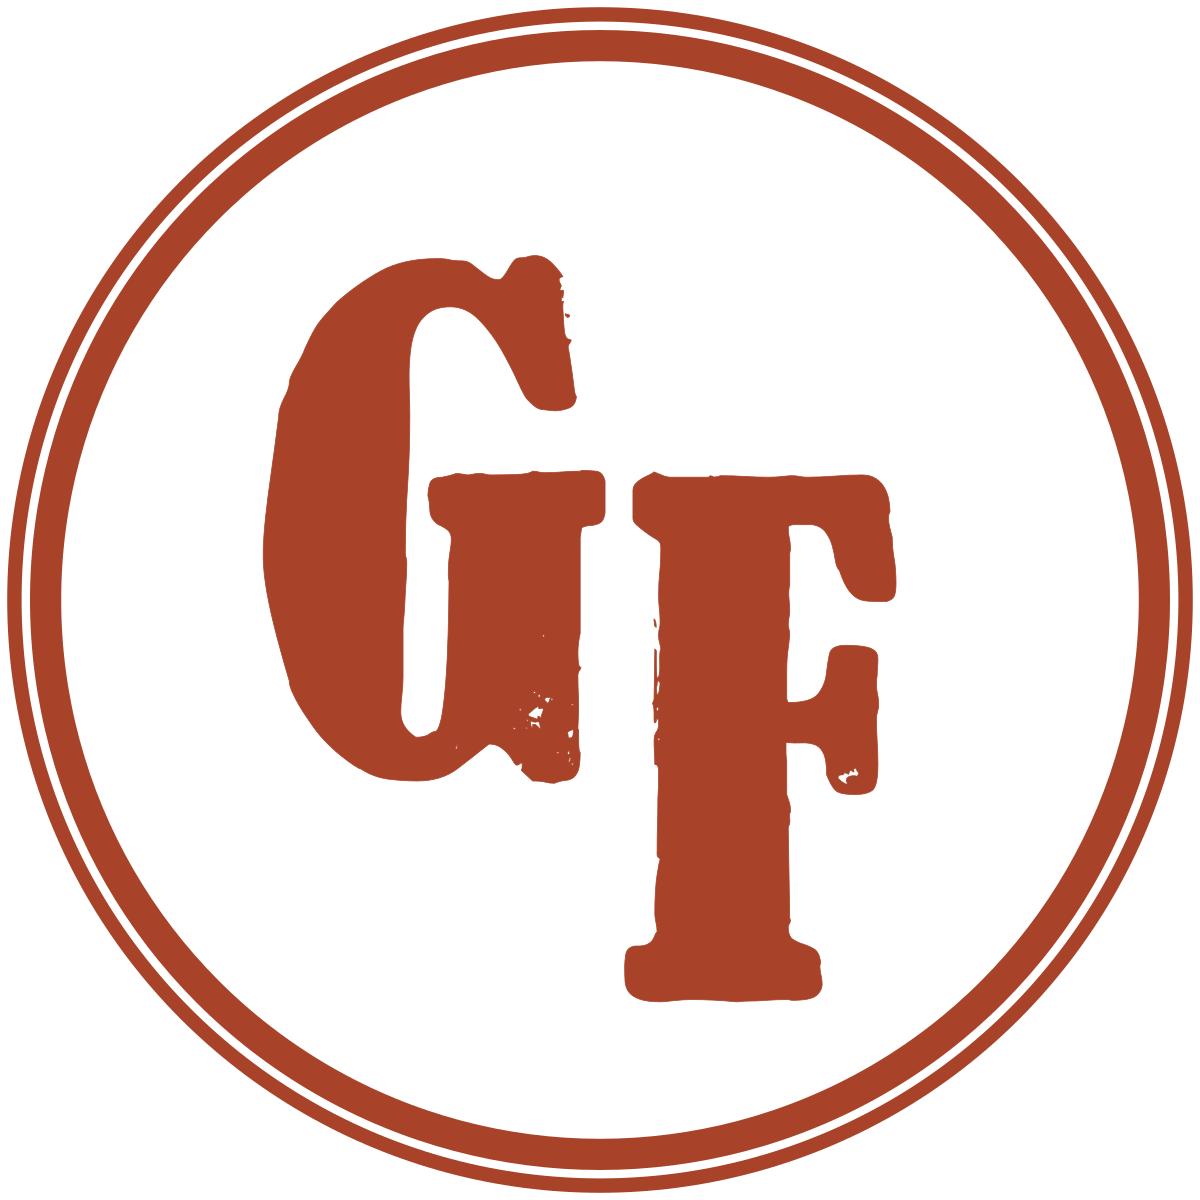
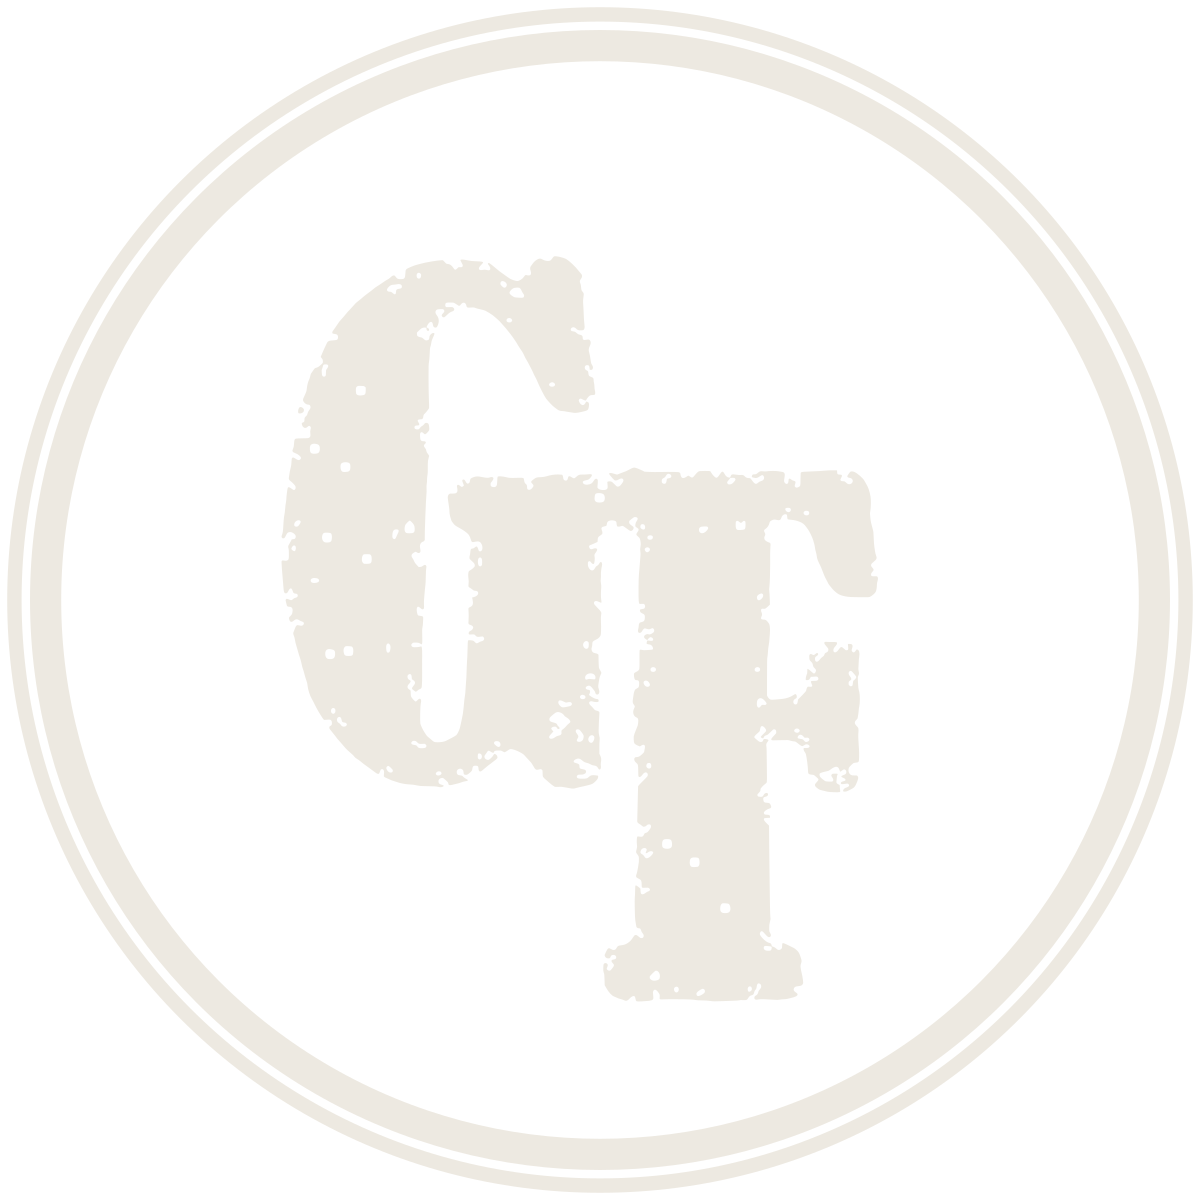
Retrace roundel from original artwork: overlapping G/F and real speckle

Changed region(s): [[0.2158, 0.2158, 0.7708, 0.8325], [0.0, 0.0, 1.0, 1.0]]

diff --git a/brand/marks/README.md b/brand/marks/README.md
@@ -52,15 +52,15 @@ distressing is the real thing rather than a reconstruction. Measured speckle den
 482 blobs per megapixel against the original's 552. Regenerating from the licensed
 webfont gave only 78, because font.download's WOFF conversion smooths the outlines.
 
-**Roundel** is rebuilt from Reprise Title, because the only source available is 345px
-square, which is too small to trace cleanly. The construction is measured off the
-original: the G and F do not interlock, they sit side by side with a hair of gap and the
-F drops 41% of the cap height so it hangs below the G. The letterforms are close but not
-identical, and the original looks like it used a heavier face than Reprise Title.
+**Roundel** is traced from the 512px original at 8x, so the speckle and the letter
+spacing are the real artwork rather than a reconstruction. The G and F overlap: the F's
+top arm crosses the G's right side and the F drops well below the G's baseline. An
+earlier version rebuilt the monogram from Reprise Title and set the letters apart with a
+gap, which was wrong.
 
-To match it exactly I need either the original roundel artwork at print size, or the
-name of the font it was set in.
-
+The source is only 512px square, so the contours are slightly soft at very large sizes.
+Fine for anything up to a kick drum head. If the roundel artwork turns up at print size,
+retrace it.
 
 ## Letter-level adjustments: not applied
 
